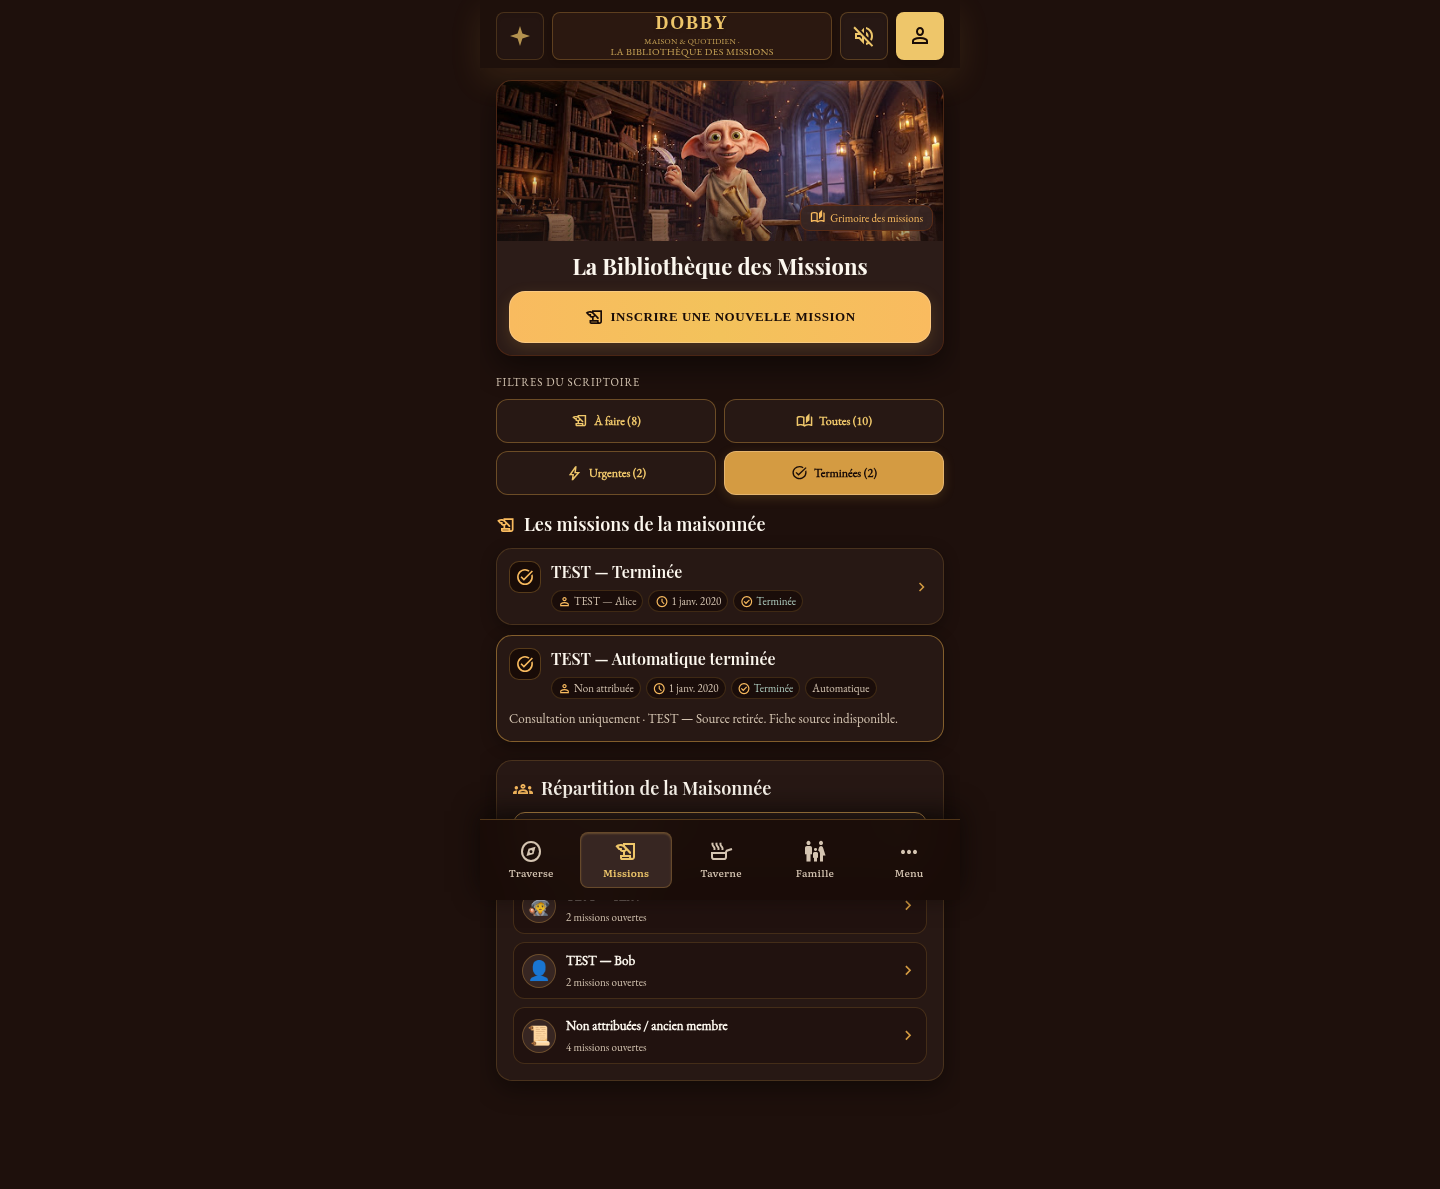
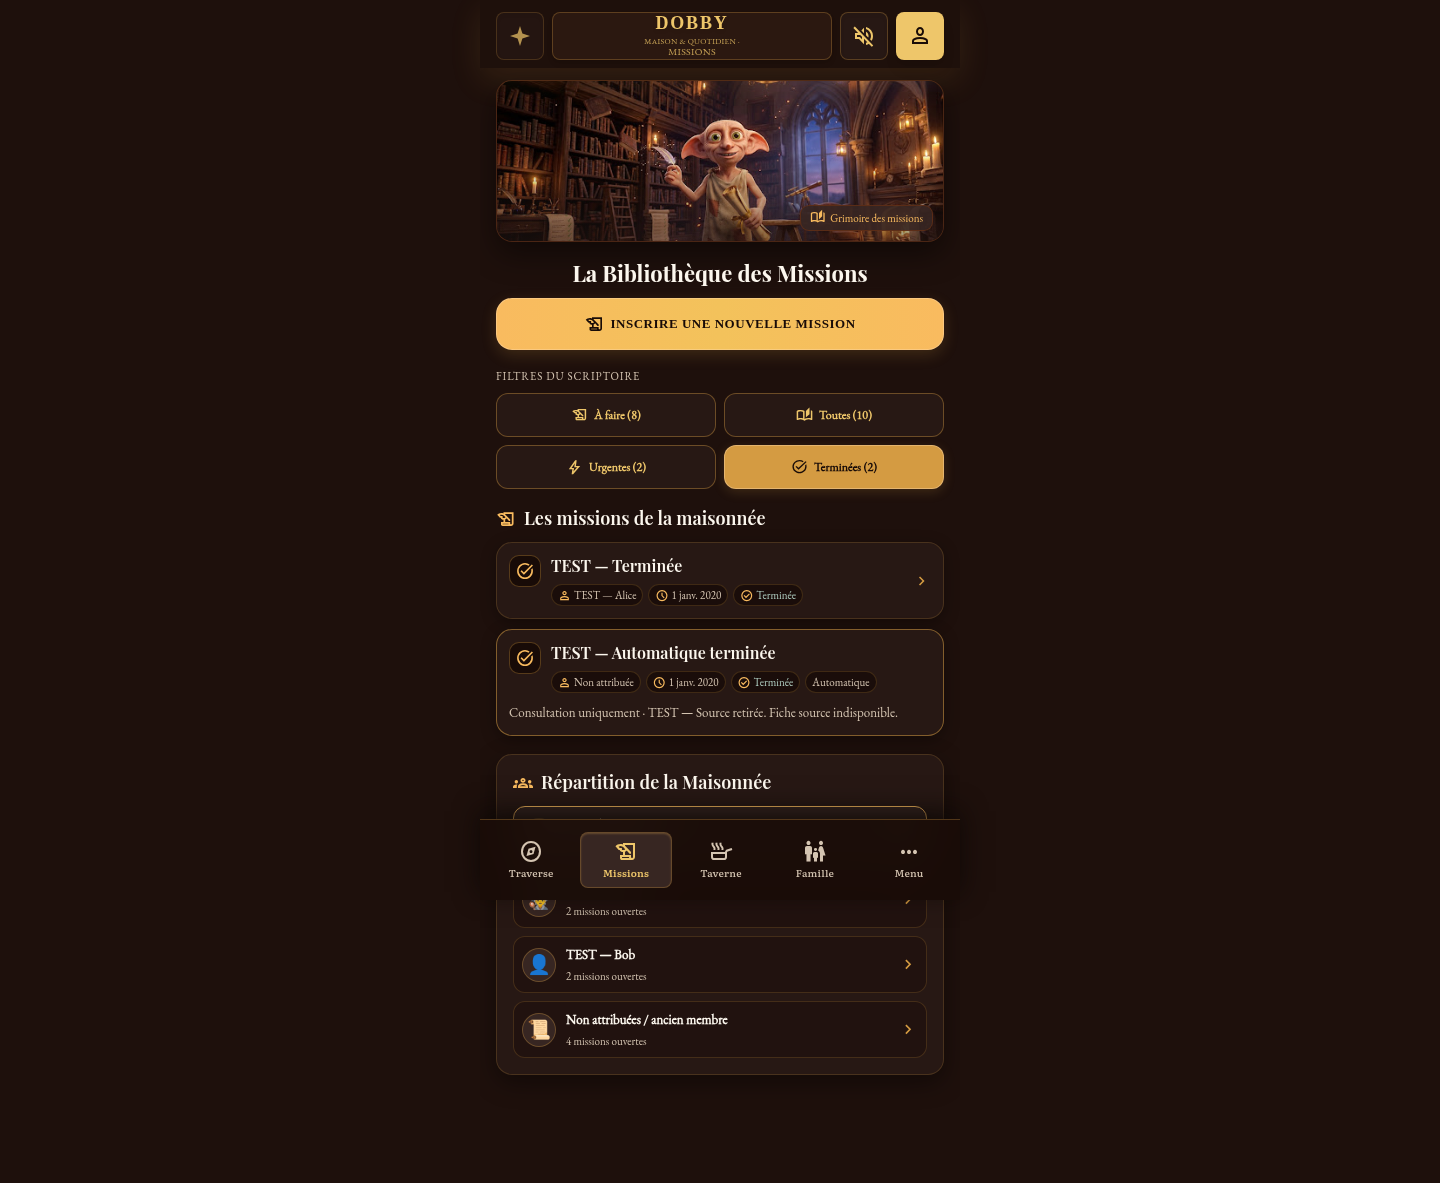
style(v7): séparer le hero Missions du titre et de son action

diff --git a/essai-stitch-v7/missions.html b/essai-stitch-v7/missions.html
@@ -12,7 +12,8 @@ body.dv7-panel-visible{overflow:hidden}body.dv7-panel-visible #dv7-engine{positi
 </style></head><body class="bg-background font-body-md text-on-surface antialiased flex flex-col min-h-screen" data-dv7-screen="missions"><header class="fixed top-0 w-full z-50 pt-safe bg-surface/85 backdrop-blur-xl shadow-[0_12px_32px_rgba(212,155,66,0.12)]"><div class="flex items-center justify-between gap-2 px-4 pt-3 pb-2 relative z-20 w-full"><button aria-label="Menu Alchimique" class="w-12 h-12 rounded-xl flex items-center justify-center bg-[#271814] border border-[#d49b42]/30 text-[#eec66a] shadow-inner cursor-pointer shrink-0"><svg class="w-6 h-6 text-[#eec66a]" viewBox="0 0 24 24" fill="currentColor"><path d="M12 2L14.4 9.6L22 12L14.4 14.4L12 22L9.6 14.4L2 12L9.6 9.6L12 2Z"></path></svg></button><div class="flex-1 h-12 rounded-xl flex flex-col items-center justify-center bg-[#2b1810] border border-[#d49b42]/30 px-3 shadow-md min-w-0"><span class="font-serif font-bold text-lg tracking-widest text-[#eec66a] uppercase leading-none drop-shadow truncate">DOBBY</span><span class="text-[10px] text-[#eec66a]/80 tracking-wider mt-1 font-medium whitespace-nowrap truncate uppercase">MISSIONS &amp; INTENDANCE • BIBLIOTHÈQUE DES MISSIONS</span></div><div class="flex items-center gap-2 shrink-0"><button id="audio-toggle-btn" aria-label="Basculer les effets sonores magiques" class="w-12 h-12 rounded-xl flex items-center justify-center bg-[#271814] border border-[#d49b42]/30 text-[#eec66a] relative shadow-inner cursor-pointer"><span id="audio-toggle-icon" class="material-symbols-outlined text-[20px]">volume_up</span><span id="audio-toggle-dot" class="absolute top-1.5 right-1.5 w-2 h-2 rounded-full bg-[#10b981] shadow-[0_0_8px_#10b981]"></span></button><button aria-label="Profil utilisateur" class="w-12 h-12 rounded-xl flex items-center justify-center bg-[#eec66a] text-[#180b07] shadow-lg cursor-pointer"><span class="material-symbols-outlined text-[20px]">person</span></button></div></div></header><div id="dv7-loading" role="status">Chargement des données du foyer…</div><main class="flex flex-col relative w-full bg-surface min-h-screen">
 <section class="e03-hero">
 <div class="e03-scene"><img alt="Dobby dans la Bibliothèque des Missions" src="../essai-v6-preview/assets/v6/missions.png"><span class="e03-badge"><span class="material-symbols-outlined" aria-hidden="true">auto_stories</span><span>Grimoire des missions</span></span></div>
-<div class="e03-hero-copy"><h1>La Bibliothèque des Missions</h1><a id="btn-nouvelle-mission" class="e03-create" href="./famille.html#mission-edit"><span class="material-symbols-outlined" aria-hidden="true">history_edu</span><span>INSCRIRE UNE NOUVELLE MISSION</span></a></div>
+</section>
+<section class="e03-hero-copy" aria-labelledby="e03-page-title"><h1 id="e03-page-title">La Bibliothèque des Missions</h1><a id="btn-nouvelle-mission" class="e03-create" href="./famille.html#mission-edit"><span class="material-symbols-outlined" aria-hidden="true">history_edu</span><span>INSCRIRE UNE NOUVELLE MISSION</span></a>
 </section>
 <section aria-label="Filtres des missions"><p class="e03-filter-label">Filtres du Scriptoire</p><div data-e03-filters role="group" aria-label="Statut des missions"></div></section>
 <section aria-labelledby="e03-missions-title"><h2 id="e03-missions-title" class="e03-section-title"><span class="material-symbols-outlined" aria-hidden="true">history_edu</span>Les missions de la maisonnée</h2><div data-e03-list aria-live="polite"></div></section>

diff --git a/essai-stitch-v7/missions-layout.html b/essai-stitch-v7/missions-layout.html
@@ -1,7 +1,8 @@
 <main class="flex flex-col relative w-full bg-surface min-h-screen">
 <section class="e03-hero">
 <div class="e03-scene"><img alt="Dobby dans la Bibliothèque des Missions" src="../essai-v6-preview/assets/v6/missions.png"><span class="e03-badge"><span class="material-symbols-outlined" aria-hidden="true">auto_stories</span><span>Grimoire des missions</span></span></div>
-<div class="e03-hero-copy"><h1>La Bibliothèque des Missions</h1><a id="btn-nouvelle-mission" class="e03-create" href="./famille.html#mission-edit"><span class="material-symbols-outlined" aria-hidden="true">history_edu</span><span>INSCRIRE UNE NOUVELLE MISSION</span></a></div>
+</section>
+<section class="e03-hero-copy" aria-labelledby="e03-page-title"><h1 id="e03-page-title">La Bibliothèque des Missions</h1><a id="btn-nouvelle-mission" class="e03-create" href="./famille.html#mission-edit"><span class="material-symbols-outlined" aria-hidden="true">history_edu</span><span>INSCRIRE UNE NOUVELLE MISSION</span></a>
 </section>
 <section aria-label="Filtres des missions"><p class="e03-filter-label">Filtres du Scriptoire</p><div data-e03-filters role="group" aria-label="Statut des missions"></div></section>
 <section aria-labelledby="e03-missions-title"><h2 id="e03-missions-title" class="e03-section-title"><span class="material-symbols-outlined" aria-hidden="true">history_edu</span>Les missions de la maisonnée</h2><div data-e03-list aria-live="polite"></div></section>

diff --git a/essai-stitch-v7/missions.css b/essai-stitch-v7/missions.css
@@ -6,8 +6,8 @@ body[data-dv7-screen=missions] main{gap:18px;padding-left:16px;padding-right:16p
 .e03-scene::after{content:"";position:absolute;inset:0;background:linear-gradient(0deg,#2c1c1877,transparent 55%);pointer-events:none}
 .e03-badge{position:absolute;z-index:1;bottom:10px;right:10px;display:flex;align-items:center;gap:5px;padding:4px 9px;border:1px solid #78350f88;border-radius:9px;background:#372622e6;color:#f9bb5f;font-size:11px}
 .e03-badge .material-symbols-outlined{font-size:15px}
-.e03-hero-copy{padding:12px;text-align:center}
-.e03-hero h1{margin:0 0 12px;font-family:'Playfair Display',Georgia,serif;font-size:22px;line-height:1.2;color:#fcf7ee;font-weight:700}
+.e03-hero-copy{padding:0;text-align:center}
+.e03-hero-copy h1{margin:0 0 12px;font-family:'Playfair Display',Georgia,serif;font-size:22px;line-height:1.2;color:#fcf7ee;font-weight:700}
 .e03-create{display:flex;align-items:center;justify-content:center;gap:6px;min-height:52px;padding:8px;border:1px solid #ffddb266;border-radius:16px;background:linear-gradient(90deg,#f9bb5f,#f3c25b,#f9bb5f);color:#180b07;font:bold 13px/1.4 Georgia,serif;letter-spacing:.04em;box-shadow:0 5px 15px #d49b422f}
 .e03-create .material-symbols-outlined{font-size:20px;flex-shrink:0}
 .e03-section-title{font-family:'Playfair Display',Georgia,serif;font-size:18px;font-weight:600;line-height:1.3;color:#fcf7ee;display:flex;align-items:center;gap:8px;margin:0 0 12px}

diff --git a/essai-stitch-v7/chrome.js b/essai-stitch-v7/chrome.js
@@ -41,6 +41,7 @@ function sectionTitle(){
  const panel=document.getElementById('dv7-panel');if(panel&&!panel.hidden)return document.getElementById('dv7-panel-title').textContent.trim();
  const heading=document.querySelector('body > main h1')?.cloneNode(true);for(const icon of heading?.querySelectorAll('.material-symbols-outlined,[aria-hidden="true"]')||[])icon.remove();
  if(['chat','chat-2'].includes(document.body.dataset.familyView))return 'Parler à Dobby';
+ if(document.body.dataset.dv7Screen==='missions')return 'Missions';
  const name=(heading?.textContent||document.title).replace(/\s+/g,' ').trim();return document.body.dataset.dv7Screen==='traverse'?name.replace(/^Le /,''):name;
 }
 function mount(){if(!template)return;const current=document.querySelector('body > header');if(current){

diff --git a/docs/dobby-v7/E03-MISSIONS.md b/docs/dobby-v7/E03-MISSIONS.md
@@ -3,6 +3,16 @@
 Branche GitHub : [`feat/dobby-e03-missions`](https://github.com/PortenartCo/dobby-demo/tree/feat/dobby-e03-missions). Worktree : `/workspace/dobby-e03`, dépôt bare séparé `/workspace/dobby-e03-repo.git`.
 Base initiale : `258b0f923491b03d78c72ba1b1edd29ab72e6a84`. Base après raccordement : `9c73e845c7744315bdc7d03f59a09ae67572aa8e` (E02 final de la PR #3, ouverte et non fusionnée). La CI [42727078167](https://github.com/PortenartCo/dobby-demo/actions/runs/42727078167) est réussie ; l'exécution parallèle [42727070298](https://github.com/PortenartCo/dobby-demo/actions/runs/42727070298) avait échoué sur une mesure prématurée du panneau compte E01.
 
+## Correctif graphique final après revue humaine
+
+Base vérifiée : `9aaeaa1cfcc47e3b337492d5bdeb7390fdc7a1fb`, branche distante et worktree propres, sans évolution concurrente E03. Travail E04 laissé dans son environnement indépendant.
+
+Le cadre de `.e03-hero` se termine désormais sous l'illustration. Le titre complet et le bouton de création sont dans une section sœur `.e03-hero-copy`, sans fond, bordure ou encadrement commun avec l'image. Image, cadrage (`50% 35%`), proportions et hauteur de scène (160 px) inchangés ; badge conservé. Espacement entre cadre et bloc titre/action : 18 px. Le sous-titre permanent affiche uniquement sur Missions « MAISON & QUOTIDIEN · MISSIONS » ; les libellés, dimensions et commandes E01/E02 restent identiques.
+
+Fichiers produit : `missions-layout.html`, `missions.css`, `missions.html` régénéré, une ligne conditionnelle dans `chrome.js`. Générateur `build-source.cjs` inchangé et réutilisé. Seule adaptation du test existant `tests/e03.cjs` : attente du nouveau libellé du header. Aucun changement métier, carte, filtre, writer, formulaire, Supabase, SQL ou source Stitch.
+
+Tests existants E03 PASS à 320/390/1440 ; vérification rapide de géométrie/absence de débordement et comparaison des barres/sous-titres E01/E02 PASS aux trois largeurs. Journaux : `evidence/e03/visual-final/tests.txt`, `geometry.txt`. Captures E03 actualisées ci-dessous ; références avant correctif et captures de comparaison E01/E02 dans `evidence/e03/visual-final/`. Aucun écart visuel résiduel identifié ; Safari physique non testé. Résultat/lien de la CI du SHA final dans la livraison.
+
 ## Résultat
 
 - Header/navigation : composants communs `DobbyChrome`, cinq destinations, Missions active ; mêmes dimensions E01. Préférences étoile/son natives persistées et profil natif accessibles.
@@ -18,7 +28,7 @@ Produit : `essai-stitch-v7/missions.html`, `missions.js`, `missions.css`, foncti
 
 Tests : `tests/e03.cjs`, `tests/e03-counts.cjs`, `tests/ci.cjs`, `tests/register-tools.cjs`, `tests/register-missions-sync.cjs`. Les tests historiques de gros boutons retirés utilisent les mêmes actions natives ; les tests E03 couvrent leur parcours utilisateur depuis E01/E02.
 
-Aucun changement dans `chrome.js`, `chrome.css`, `tools-register.js`, les formulaires/templates Stitch, E01/E02, V5, les HTML originaux ou SQL.
+`chrome.js` : seule adaptation du sous-titre de Missions (voir correctif visuel ci-dessous). Aucun changement dans `chrome.css`, `tools-register.js`, les formulaires/templates Stitch, E01/E02, V5, les HTML originaux ou SQL.
 
 ## Vérifications
 

diff --git a/docs/dobby-v7/evidence/e03/ledger.md b/docs/dobby-v7/evidence/e03/ledger.md
@@ -21,3 +21,9 @@
 - Défaut causal CI identifié avant push : build-source.cjs reconstruisait l’ancienne page Missions. Composition déjà validée extraite dans missions-layout.html et intégrée au générateur ; HTML résultant strictement identique, autres sorties inchangées.
 - Tests ciblés existants e03-counts/e03/e01/e02 : PASS après rebase. Captures conservées (hashes et runtime E03 inchangés), liens GitHub dans le rapport.
 - Nouvelle autorisation utilisateur : push de la branche E03 seule et CI, sans force-push/fusion/Pages ; PR E02 préservée. CI existante déclenchée par push, pas de draft PR nécessaire.
+
+## Harmonisation graphique finale demandée
+- Base 9aaeaa1 confirmée locale/distante ; worktree propre. E04 non consulté/non modifié.
+- Composition seulement : cadre image autonome + bloc titre/CTA sans encadrement, cadrage/hauteur conservés ; libellé Missions conditionnel dans chrome.js.
+- Génération réutilisée ; tests existants E03 PASS 320/390/1440 ; comparaison géométrique/sous-titres E01/E02 PASS. Aucun code métier ou formulaire modifié.
+- Captures actuelles et avant correctif enregistrées ; push de la même branche et attente CI existante, sans fusion/Pages.
